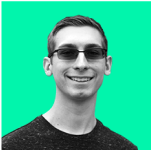
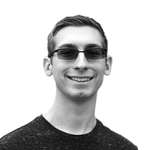
refactor: Apprentice Images
- Ran all apprentice images through remove.bg
- Gave all apprentice images a background color using our color variables

FSA21V2-150

diff --git a/components/hero/hero.module.scss b/components/hero/hero.module.scss
@@ -83,27 +83,31 @@
 
       img {
         max-width: 100%;
-        margin-top: -5px;
 
         // Images below are placed in the grid in order from top to bottom and left to right
         &:nth-child(1) {
           grid-area: 2 / 18 / 7 / 41;
+          background-color: $c-highlight-blue;
         }
 
         &:nth-child(2) {
           grid-area: 7 / 7 / 11 / 18;
+          background-color: $c-highlight-green;
         }
 
         &:nth-child(3) {
           grid-area: 7 / 41 / 12 / 64;
+          background-color: $c-highlight-green;
         }
 
         &:nth-child(4) {
           grid-area: 12 / 18 / 17 / 41;
+          background-color: $c-highlight-pink;
         }
 
         &:nth-child(5) {
           grid-area: 17 / 41 / 20 / 51;
+          background-color: $c-highlight-blue;
         }
         // In mobile and tablet view only 3 images are shown
         &:nth-child(n + 4) {

diff --git a/components/call-to-action/call-to-action.module.scss b/components/call-to-action/call-to-action.module.scss
@@ -86,22 +86,27 @@
         // Images below are placed in the grid in order from top to bottom and left to right
         &:nth-child(1) {
           grid-area: 2 / 1 / 6 / 22;
+          background-color: $c-highlight-pink;
         }
 
         &:nth-child(2) {
           grid-area: 6 / 22 / 14 / 44;
+          background-color: $c-highlight-blue;
         }
 
         &:nth-child(3) {
           grid-area: 4 / 44 / 8 / 55;
+          background-color: $c-highlight-pink;
         }
 
         &:nth-child(4) {
           grid-area: 10 / 11 / 17 / 22;
+          background-color: $c-highlight-green;
         }
 
         &:nth-child(5) {
           grid-area: 10 / 44 / 20 / 66;
+          background-color: $c-highlight-green;
         }
         // In mobile and tablet view only 3 images are shown
         &:nth-child(n + 4) {

diff --git a/components/apprentice/apprentice.module.scss b/components/apprentice/apprentice.module.scss
@@ -1,3 +1,5 @@
+@use '../../styles/colors' as *;
+
 .container {
   display: flex;
   flex-direction: column;
@@ -6,6 +8,7 @@
   &__image {
     max-width: 100%;
     order: 0;
+    background-color: $c-highlight-green;
   }
 
   &__heading {
